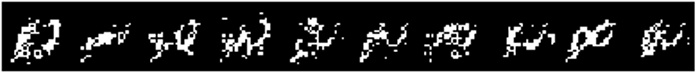
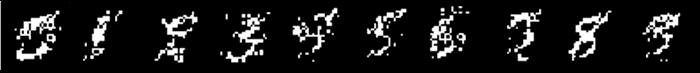
Writing digits results

diff --git a/text/tlr-digits.tex b/text/tlr-digits.tex
@@ -7,15 +7,16 @@
 \subsection{Handwritten Digits} 
 \label{sec:results-digits} 
 
-(\ref{sec:datasets-digits}) 
+In this section we wanted to test TLR on high dimensional graphical task and compare it to other known models. Therefore we have chosen the \emph{hand written digits} dataset (\ref{sec:datasets-digits}). As in the previous simulations, we trained the networks for range of $\lambda_v$ and $\lambda_h$ values and found best parameters. Then we analysed that particular network more closely. 
+
+For this task we splitted the dataset to \emph{train} set with 38,000 samples and \emph{test} set with 4,000 samples. First we trained the networks on the train set and then evaluted them on the test set. Also the convergence criteria were different. The $Epoch_{\rm max}$ value was set to 20 and if no $patSucc^F$ increase occured in the previous 3 epoch, then the training was stopped. Note that the final classification method was chosen from treshold perceptron to classifying the output value with greatest activation. 
 
 %===============================================================
 %===============================================================
 %===============================================================
 \subsubsection{Two learning rates} 
 \label{sec:tlr-digits} 
-
-TODO explain, the halfline theory 
+On figure~(\ref{fig:results-tlr-digits-epoch}) $patSucc^F$, i.e. ratio of correctly classified test samples, is plotted for $(\lambda_v,\, \lambda_h)$ pairs. In comparison to TLR performances on tasks 4-2-4 encoder~(\ref{fig:results-tlr-auto4-performance}) and CBVA~(\ref{fig:results-tlr-k3-performance}) the successful values of $(\lambda_v,\, \lambda_h)$ were smaller. That introduces the hypothesis that the bigger set of samples, the lower the values of $(\lambda_v,\, \lambda_h)$. We suggest it as a possible future work in section~\ref{sec:future-work}. 
 
 %Purpose: 
 %======== (3D) L1 x L2 x patSuccF =========
@@ -24,15 +25,17 @@ TODO explain, the halfline theory
   \centering
   \includegraphics[width=0.60\textwidth]{img/tlr-digits-psf.pdf} 
 %  \includegraphics[width=0.49\textwidth]{img/tlr-digits-epoch.pdf}     
-  \caption{TLR performance on the \emph{digits} task for $\mu = 0.01$.}
+  \caption{TLR performance on the \emph{digits} task for $\sigma = 1/\sqrt{784+1} \approx 0.036$ and $\mu = 0.01$ best being $88.47\$$ with $\lambda_v=0.1$ and $\lambda_h=10^{-8}$.}
   \label{fig:results-tlr-digits-success}
 \end{figure}
+
+On the following figure~(\ref{fig:results-tlr-digits-epoch}) $patSucc^F$ is plotted to epochs. TODO explain. 
 
 %======== (2D) best TLR on ALL_SUCC x epoch (std-dev) ==========
 \begin{figure}[H]
   \centering
-  \includegraphics[width=0.45\textwidth]{img/placeholder.png}  %TODO    
-  \caption{TLR success evolution for the \emph{digits} task.}
+  \includegraphics[width=0.60\textwidth]{img/placeholder.png}  %TODO    
+  \caption{TLR success evolution for the \emph{digits} task with $\sigma = 1/\sqrt{784+1}$, $\mu = 0.01$, $\lambda_v=0.1$ and $\lambda_h=10^{-8}$.}
   \label{fig:results-tlr-digits-epoch} 
 \end{figure}
 
@@ -41,10 +44,8 @@ TODO explain, the halfline theory
 %===============================================================
 \subsubsection{Comparison} 
 \label{sec:results-cmp-digits} 
-TODO simulation + plots~(\ref{sec:datasets-digits}) 
 
-For TLR, BAL, GeneRec + known performers 
-TODO: table: best parameter setting networks with hidden.size= constant (success, epoch, stddev) / model \\
+For comparison of TLR on the \emph{digits} task we have chosen from \citet{digits2014mnist} neural network models with similar architecture of layers, i.e. 784-300-10. The table~\ref{tab:results-cmp-digits} shows the comparison where we see that TLR is able to learn such tasks but still has a great performance gap to fill. 
 
 \begin{table}[H] 
   \centering
@@ -52,56 +53,39 @@ TODO: table: best parameter setting networks with hidden.size= constant (success
     \hline
     Algorithm (section)&$\lambda_h$&$\lambda_v$&$patSucc^F$ &Epochs\\ %&SEM(success) \\
     \hline
-    BAL TLR~(\ref{sec:our-tlr})& & & & \\ %&1.52e+08\\
+    Linear classifier & -- & -- & 88 & -- \\ %&1.52e+08\\
+    \hline
+    BP 784-300-10~(\ref{sec:models-bp})& -- & -- & 95.3 & -- \\ %&1.52e+08\\
+    \hline 
+    TLR 784-300-10~(\ref{sec:models-bp})& $10^{-8}$ & 0.1 & 88.47 & -- \\ %&1.52e+08\\
     \hline 
     \end{tabular}
-  \caption{Comparing performance of different models on the \emph{digits} task with 300 hidden neurons.} 
+  \caption{Comparing performance of different models on the \emph{digits} task with 300 hidden neurons. Data from \citet{lecun1998gradient} and \citet{digits2014mnist}.} 
   \label{tab:results-cmp-digits}
 \end{table}
-
-\paragraph{Backward representations.} 
-(\ref{sec:our-backward-repre}) 
-
-TODO 3x 10x backward digit representations 
-
-\begin{figure}[H]
-  \centering
-  \includegraphics{../presentation/img/dig_0.png} %TODO 
-  \includegraphics{../presentation/img/dig_1.png} 
-  \includegraphics{../presentation/img/dig_2.png} 
-  \includegraphics{../presentation/img/dig_3.png} 
-  \includegraphics{../presentation/img/dig_4.png} 
-  \includegraphics{../presentation/img/dig_5.png} 
-  \includegraphics{../presentation/img/dig_6.png} 
-  \includegraphics{../presentation/img/dig_7.png} 
-  \includegraphics{../presentation/img/dig_8.png} 
-  \includegraphics{../presentation/img/dig_9.png} 
-  \caption{Backward representations on \emph{digits} for GeneRec.}
-  \label{fig:results-backward-repre-generec}
-\end{figure}
-
 
 %===============================================================
 %===============================================================
 %===============================================================
 \subsubsection{Backward representations} 
-
 \label{sec:our-backward-repre}
 
-The method of \emph{backward representations} for \emph{hetero--associative} tasks, i.e.~tasks which have multiple inputs for the same output, is to \emph{depict} the backward activation of all possible outputs. In case of BAL~(\ref{sec:models-bal}) the backward representations are all possible values of $x^{\rm B}$. For example the backward representation of digit "8" in TLR~(\ref{sec:our-tlr}) is show on figure~\ref{fig:our-backward-repre}. 
+The method of \emph{backward representations} for \emph{hetero--associative} tasks, i.e.~tasks which have multiple inputs for the same output, is to \emph{depict} the backward activation of an output. In case of BAL~(\ref{sec:models-bal}), the backward representations are all possible values of $x^{\rm B}$ for each possible output value, i.e.~target. For example the backward representation of digit "8" in TLR~(\ref{sec:our-tlr}) is show on figure~\ref{fig:our-backward-repre-9}. 
 
 \begin{figure}[H]
   \centering
-  \includegraphics[width=0.2\textwidth]{img/tlr-digit-8.png} %TODO 
+  \includegraphics[width=0.2\textwidth]{img/tlr-digit-8.png} 
   \caption{Backward representation of digit "8" in TLR.}
-  \label{fig:our-backward-repre}
+  \label{fig:our-backward-repre-8}
 \end{figure}
+
+As we can see on figure~\ref{fig:results-tlr-digits-backward}, TLR gives us readable backward activations. This intuitively proves that the model is capable of bidirectional training. The shapes could be best seen on digit ``0'', ``1'' and ``8''. But using a little creativity we could see other shapes too. 
 
 %======== (2D) for best network vs. sample digits
 \begin{figure}[H]
 %TODO rotate 
   \centering
-  \includegraphics[width=0.45\textwidth]{img/tlr-digits.png}    
-  \caption{Best TLR backward representations for the \emph{digits} task.}
+  \includegraphics[width=0.98\textwidth]{img/tlr-digits.png}    
+  \caption{Backward representations for the most successful TLR instances on the \emph{digits} task.}
   \label{fig:results-tlr-digits-backward} 
 \end{figure}

diff --git a/text/tlr-auto4.tex b/text/tlr-auto4.tex
@@ -10,8 +10,8 @@
 %==================================================================
 \paragraph{Introduction.} 
 \label{sec:results-auto4-introduction} 
-In this section, we inspect TLR~(\ref{sec:our-tlr}) performance for a broad range of parameters $\lambda_h$ and $\lambda_v$. The network architecture is only 4-2-4~
-(\ref{sec:datasets-auto4}) what allows us to run plethora of simulations. There were two kinds of simulations. First were \emph{two dimensional maps (TDM)} where we plotted $\lambda_v$ on the $x$ axis, $\lambda_h$ on the $y$ axis and used color for the $z$ axis. Second were \emph{timelines} (TL) where a best configuration found by TDM was inspected. For TDM we ran about 200-500 networks for each ($\lambda_v$, $\lambda_h$) and for timelines about 5000-10000 runs. After the simulation ended we took the average for each parameter setting. The networks were trained while $patSucc^F \neq 0$ or $epoch < Epoch_{\rm max}$ where $Epoch_{\rm max}$ was set to 100,000 in TDM and 1,000,000 in TL. Note that most of the plots are in \emph{logarithmic} scale. 
+In this section, we analyse TLR~(\ref{sec:our-tlr}) performance for a broad range of parameters $\lambda_h$ and $\lambda_v$. The network architecture is only 4-2-4~
+(\ref{sec:datasets-auto4}) what allows us to run plethora of simulations. There were two kinds of simulations. First were \emph{two dimensional maps (TDM)} where we plotted $\lambda_v$ on the $x$ axis, $\lambda_h$ on the $y$ axis and used color for the $z$ axis. Second were \emph{timelines} (TL) where a best configuration found by TDM was analysed. For TDM we ran about 200-500 networks for each ($\lambda_v$, $\lambda_h$) and for timelines about 5000-10000 runs. After the simulation ended we took the average for each parameter setting. The networks were trained while $patSucc^F \neq 0$ or $epoch < Epoch_{\rm max}$ where $Epoch_{\rm max}$ was set to 100,000 in TDM and 1,000,000 in TL. Note that most of the plots are in \emph{logarithmic} scale. 
 
 %============================================================
 \input{results-auto4-cmp} 
@@ -34,7 +34,7 @@ On figure~\ref{fig:results-tlr-auto4-performance} we compare success rate for di
 
 Note the inconsistency between table~\ref{tab:results-cmp-auto4} where 93.12\% success was stated for TLR and in figure~\ref{fig:results-tlr-auto4-performance} it was 96.5\%. We can explain this by the \emph{law of big numbers}. In the first case we run 10,000 networks and therefore, the result is likely to mirror the reality. In the second case only 200 networks were run for each$(\lambda_v,\,\lambda_h)$ pairs with having about 50 candidates for best achievers. Thus if we do little amount of runs for these 50 candidates it~is likely that some them will achieve better than in reality. 
 
-On figure~\ref{fig:results-tlr-auto4-epoch} the success timeline for TLR with best $\lambda_h$ and $\lambda_v$ is inspected. We see that the success rate increases even after $10^5$ epochs and our intuition tells us that it will continue even after $10^6$ epoch. Also interesting is that $patSucc^B$ first follows $patSucc^F$ for about 100 epochs but then it stagnates at rate $\approx0.8$ and even it starts to drop a little. TODO explain, maybe an implementation error? It~is so symmetric and weight update is independent on activation cimputation. 
+On figure~\ref{fig:results-tlr-auto4-epoch} the success timeline for TLR with best $\lambda_h$ and $\lambda_v$ is analysed. We see that the success rate increases even after $10^5$ epochs and our intuition tells us that it will continue even after $10^6$ epoch. Also interesting is that $patSucc^B$ first follows $patSucc^F$ for about 100 epochs but then it stagnates at rate $\approx0.8$ and even it starts to drop a little. TODO explain, maybe an implementation error? It~is so symmetric and weight update is independent on activation cimputation. 
 
 %======== (2D) best TLR on ALL_SUCC x epoch (std-dev) ==========
 \begin{figure}[H]

diff --git a/text/tlr-k3.tex b/text/tlr-k3.tex
@@ -8,7 +8,7 @@
 \subsection{Complex binary vector associations} 
 \label{sec:results-k3}
 
-In this section, we inspect TLR~(\ref{sec:our-tlr}) and GeneRec~(\ref{sec:models-generec}) performance on the \emph{CBVA} task~(\ref{sec:datasets-k3}). The methodology is similar as in case of the 4-2-4 encoder task described in \ref{sec:results-auto4-introduction}. The main difference is that we tried several architectures of type 16-$n$-16 for $n \in \{3,\,4,\cdots,\,10\}.$. Second difference was the setting of $Epoch_{\rm max}$ to 20,000 for TLR and 5,000 for GeneRec. 
+In this section, we analyse TLR~(\ref{sec:our-tlr}) and GeneRec~(\ref{sec:models-generec}) performance on the \emph{CBVA} task~(\ref{sec:datasets-k3}). The methodology is similar as in case of the 4-2-4 encoder task described in \ref{sec:results-auto4-introduction}. The main difference is that we tried several architectures of type 16-$n$-16 for $n \in \{3,\,4,\cdots,\,10\}.$. Second difference was the setting of $Epoch_{\rm max}$ to 20,000 for TLR and 5,000 for GeneRec. 
 
 %============================================================
 \subsubsection{Two learning rates} 
@@ -38,7 +38,7 @@ On figure~(\ref{fig:results-tlr-k3-performance}) we compare success rate of TLR 
   \label{fig:results-tlr-k3-performance}
 \end{figure}
 
-On figure~\ref{fig:results-tlr-auto4-epoch} the success timeline for TLR with best $\lambda_h$ and $\lambda_v$ is inspected. We can observe that TLR is increasing its success in time steadily. Moreover, we see that the candidate preselection~(\ref{sec:sim-exp-candidates}) has an positive impact on the network performance.
+On figure~\ref{fig:results-tlr-auto4-epoch} the success timeline for TLR with best $\lambda_h$ and $\lambda_v$ is analysed. We can observe that TLR is increasing its success in time steadily. Moreover, we see that the candidate preselection~(\ref{sec:sim-exp-candidates}) has an positive impact on the network performance.
 Note that as the CBVA task is non bijective, i.e. one output has several inputs, it is impossible to achieve 100\% $patSucc^B$ or $bitSucc^B$. 
 
 %======== (3D) best TLR on ALL_SUCC x epoch (std-dev) x hidden size ==========

diff --git a/text/results-auto4-cmp.tex b/text/results-auto4-cmp.tex
@@ -4,7 +4,7 @@
 
 In the following table~(\ref{tab:results-cmp-auto4}) we can see the comparison of the most important models which we analysed on the \emph{4-2-4 encoder} task. We achieved an improvement of BAL $patSucc^F$ from $62.7\%$ to $93.1\%$ by using two different learning rates~(\ref{sec:our-tlr}). This result was improved further to $99.86\%$ by preselecting networks based on initial weights~(\ref{sec:sim-exp-candidates}). This proved that hidden distance and representation convexity are important attributes of BAL~(\ref{sec:results-candidates}). 
 
-On the other hand, many of the analysed models achieved poorly. Notably we tried modified GeneRec learning rules~(\ref{sec:models-generec-modifications}) on BAL, calling this model \emph{BAL GeneRec Learning Rules (BAL GLR)}. This led to no good results. Also, \emph{BAL-recirc}~(\ref{sec:our-bal-recirc}) achieved worse than BAL. We experimented with \emph{momentum} in section~(\ref{sec:results-momentum}), symmetric version of BAL in section~(\ref{sec:our-bal-sym}) and other but with no significant improvement. 
+On the other hand, many of the analysed models achieved poorly. Notably we tried modified GeneRec learning rules~(\ref{sec:models-generec-modifications}) on BAL, calling this model \emph{BAL GeneRec Learning Rules (BAL GLR)}. This led to no good results. Also, \emph{BAL-recirc}~(\ref{sec:our-bal-recirc}) achieved worse than BAL. We experimented with \emph{momentum} in section~(\ref{sec:results-momentum}), symmetric version of BAL in section~(\ref{sec:our-bal-sym}) and other modification but all without significant improvement in success. 
 
 \begin{table}[H] 
   \centering

diff --git a/text/conclusion.tex b/text/conclusion.tex
@@ -22,6 +22,7 @@ half line hypothesis
 %What left unfinished from your work? What are you future plans to develop better your work?
 
 \subsection*{Future Work} 
+\label{sec:future-work}
 Weight initialization: train on the dataset (initial weights + success)~(\ref{sec:results-sigma}) 
 i.e. ako rozlisit uspesne a neuspesne od inicializacie (v batch mode), t.j. binarny klasifikator na good/bad vah . 
 
@@ -34,4 +35,5 @@ Tricks with BP~\citep{lecun2012efficient}.
 
 Try using also backward activations.
 
+That introduces the hypothesis that the bigger set of samples, the lower the values of $(\lambda_v,\, \lambda_h)$
 
